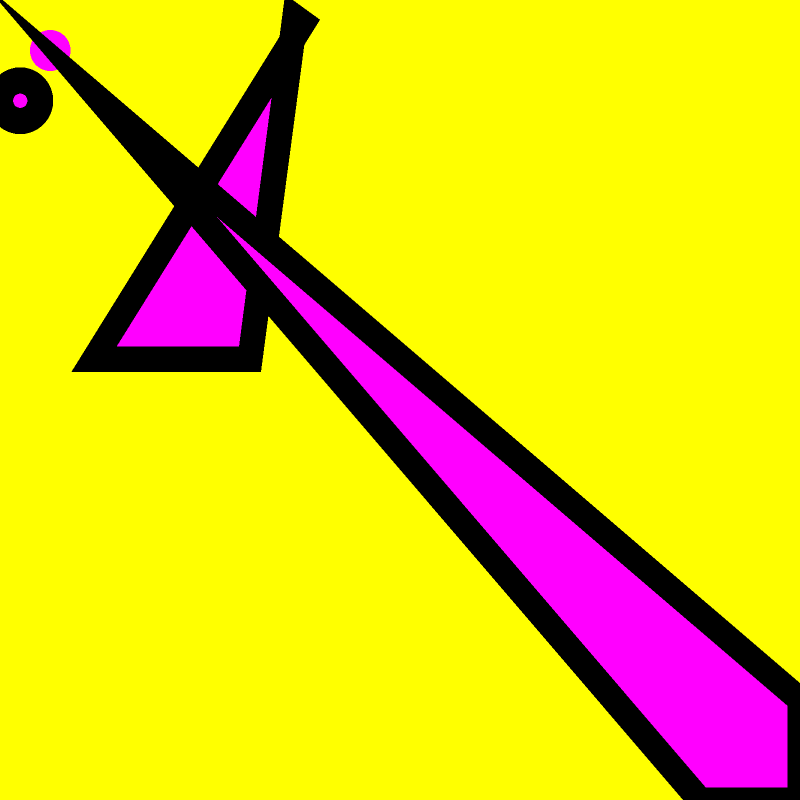
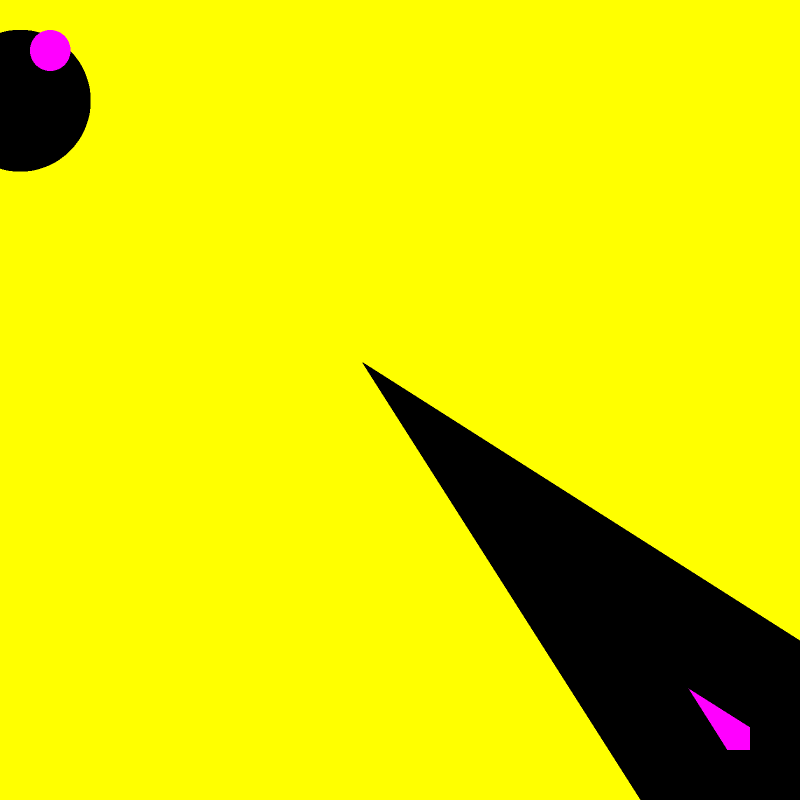
wee hoo, done

Changed region(s): [[0.0, 0.0, 1.0, 1.0], [0.7812, 0.6562, 0.8125, 0.6875], [0.6562, 0.7812, 0.6875, 0.8125]]

diff --git a/sources/curves/line.cpp b/sources/curves/line.cpp
@@ -6,31 +6,25 @@ using namespace glib;
 using namespace std;
 
 line::line(point a, point b) : 
-  _a(a.trunc()),
-  _b(b.trunc()) {
+  _a(a),
+  _b(b) {
 }
 
-bool
-line::width_bigger() const {
-	return (__abs(_a.x-_b.x) > __abs(_a.y-_b.y));
-}
-
-bool
-line::switch_points() const {
-	return ((width_bigger())?(_b.x>_a.x):(_b.y>_a.y));
-}
 
 list<moved_arrays>
 line::get_arrays() {
 	//algoritmus nekde odsud http://cgg.ms.mff.cuni.cz/~pepca/, zrovna to nebezi
 	
-	bool is_width_bigger = width_bigger();
+		//kreslim vzdycky podel delsiho rozmeru, a od mensiho cisla k vetsimu
+	bool is_width_bigger = (__abs(_a.x-_b.x) > __abs(_a.y-_b.y));
+	bool is_switch_points = ((is_width_bigger)?(_b.x>_a.x):(_b.y>_a.y));
 	
-	bool is_switch_points = switch_points();
 	
+			//kde zacinam a koncim
 	point begin_p = (is_switch_points)?(_a.trunc()):(_b.trunc());
 	point end_p = (is_switch_points)?(_b.trunc()):(_a.trunc());
 	
+				//zveda se ten druhy rozmer nebo klesa?
 	bool increasing = (is_width_bigger ? ((end_p.y-begin_p.y)>0) : ((end_p.x-begin_p.x)>0));
 	
 	moved_arrays res(__minimum(begin_p.y,end_p.y),__maximum(begin_p.y, end_p.y));
@@ -86,36 +80,32 @@ line::get_thick_line(const glib_float thickness, const curve* const previous, co
 	point c;
 	point d;
 	
-	geom_line my_geom_line = /*(switch_points())?(geom_line(_b,_a)):*/(geom_line(_a,_b));
+	geom_line my_geom_line =(geom_line(_a,_b));
 	
 	if (const line* previous_line = dynamic_cast<const line*>(previous)) {
 		
-		geom_line previous_geom_line = /*(previous_line->switch_points())?(geom_line(previous_line->_b, previous_line->_a)):*/(geom_line(previous_line->_a, previous_line->_b));
+		geom_line previous_geom_line = (geom_line(previous_line->_a, previous_line->_b));
 		
-		geom_line res = my_geom_line.parallel_intersection(previous_geom_line, thickness/2);
-		//prvni vrati VLEVO, pak VPRAVO
+		geom_line res = previous_geom_line.thick_cover(my_geom_line, thickness/2,true);
+
 		b=res.a;
 		a=res.b;
 	} else {
-		geom_line this_gl = geom_line(_a, _b);
-		a = this_gl.right_angle_a(1,thickness/2);
-		b = this_gl.right_angle_a(0,thickness/2);
+		a = my_geom_line.right_angle_a(1,thickness/2);
+		b = my_geom_line.right_angle_a(0,thickness/2);
 	}
 	
 	if (const line* next_line = dynamic_cast<const line*>(next)) {
 	
-		geom_line next_geom_line = /*(next_line->switch_points())?(geom_line(next_line->_b, next_line->_a)):*/(geom_line(next_line->_a, next_line->_b));
+		geom_line next_geom_line = (geom_line(next_line->_a, next_line->_b));
 		
-		geom_line res = my_geom_line.parallel_intersection(next_geom_line, thickness/2);
+		geom_line res = my_geom_line.thick_cover(next_geom_line, thickness/2,false);
 	
-	
-	//	std::cout<<"zde vznika c jako intersection paralelu usecky, dane body _a:"<<_a.x<<","<<_a.y<<" a _b:"<<_b.x<<","<<_b.y<<"; a dalsi usecka je dana body _a:"<<(next_line->_a).x<<","<<(next_line->_a).y<<" a _b:"<<(next_line->_b).x<<","<<(next_line->_b).y<<" s tloustkou "<<thickness/2<<", resp. jako jeden z bodu.\n=====\n";
 		c = res.a;
 		d = res.b;
 	} else {
-		geom_line this_gl = geom_line(_a, _b);
-		d = this_gl.right_angle_b(1,thickness/2);
-		c = this_gl.right_angle_b(0,thickness/2);
+		c = my_geom_line.right_angle_b(1,thickness/2);
+		d = my_geom_line.right_angle_b(0,thickness/2);
 	}
 	
 	return polygon(a,b,c,d);

diff --git a/sources/geom_line.cpp b/sources/geom_line.cpp
@@ -52,7 +52,6 @@ geom_line::intersection(const geom_line& another)const {
 		glib_float another_c = another.a.x-another_k*(another.a.y);
 		
 		glib_float y=(another_c-c)/(k-another_k);
-		if (__abs(k - another_k)<0.1) {throw 1;}
 		glib_float x=k*y+c;
 		
 		return point(x,y);
@@ -61,17 +60,74 @@ geom_line::intersection(const geom_line& another)const {
 	
 }
 
+geom_line 
+geom_line::reverted() const{
+	return geom_line(b,a);
+}
+
+glib_float 
+geom_line::count_rev_angle(const geom_line another) const{
+	glib_float first = another.reverted().angle_from_x();
+	std::cout<<"first je "<<first<<"\n";
+	glib_float second = angle_from_x();
+	glib_float res = first-second;
+	if (__abs(res)>180) {
+		glib_float res2=360-__abs(res);
+		if (res>0){res=-res2;} else {res=res2;}
+	}
+	return res;
+}
+
+glib_float 
+geom_line::angle_from_x() const{
+	if (__abs(a.x-b.x)<0.1) {
+		return (a.y<b.y)?(270):(90);
+	}
+	
+	if (__abs(a.y-b.y)<0.1) {
+		return (a.x<b.x)?(0):(180);
+	}
+	
+		//ty Y jsou "obracene", protoze Y je v souradicich na druhou stranu nez X
+	glib_float res;
+	if (b.x > a.x) {
+		
+		res=__RAD2DEG(atan((a.y-b.y) / (b.x-a.x)));
+	} else {
+		res = 180-__RAD2DEG(atan((b.y-a.y) / (b.x-a.x)));
+	}
+	while (res<0) res+=360;
+	while (res>360) res-=360;
+	return res;
+}
+
 geom_line
-geom_line::parallel_intersection(const geom_line& another, const glib_float distance) const{
+geom_line::thick_cover(const geom_line& another, const glib_float distance, bool second_hint) const{
 	geom_line my_right_parallel = parallel(false, distance);
 	geom_line another_right_parallel = another.parallel(false,distance);
-	point first_intersection = my_right_parallel.intersection(another_right_parallel);
+	
 	
 	geom_line my_left_parallel =  parallel(true, distance);
 	geom_line another_left_parallel = another.parallel(true,distance);
-	point second_intersection = my_left_parallel.intersection(another_left_parallel);
 	
-	return geom_line(first_intersection, second_intersection);
+	glib_float angle = count_rev_angle(another);
+	
+	point left_intersection;
+	point right_intersection;
+	
+	if (__abs(angle)<25){
+		left_intersection = my_left_parallel.intersection(another_right_parallel);
+		right_intersection = my_right_parallel.intersection(another_left_parallel);
+		if (second_hint) {
+			return geom_line(right_intersection, left_intersection);
+		}
+	} else {
+		left_intersection = my_left_parallel.intersection(another_left_parallel);
+		right_intersection = my_right_parallel.intersection(another_right_parallel);
+	}
+
+	
+	return geom_line(left_intersection, right_intersection);
 }
 
 geom_line 

diff --git a/sources/main.cpp b/sources/main.cpp
@@ -1,11 +1,18 @@
 #include "canvas.h"
 #include "all_shapes.h"
 #include "png_paint.h"
+#include "geom_line.h"
 
+
+using namespace glib;
 int main () {
+	
+	glib::glib_float ll = geom_line(point(10,10), point(0,20)).count_rev_angle(geom_line(point(20,20), point(10,10)));
+//	glib::glib_float ll = geom_line(point(10,0), point(0,10)).angle_from_x();
+	std::cout<<ll<<"\n";
 	glib::canvas novy(800,800, glib::RGBa(255,255,0),true);
 	
-	glib::shape_style style2(25, glib::RGBa(0,0,0), 1, glib::RGBa(255,0,255,255));
+	glib::shape_style style2(100, glib::RGBa(0,0,0), 1, glib::RGBa(255,0,255,255));
 	
 	glib::shape_style style(0, glib::RGBa(0,0,0), 1, glib::RGBa(255,0,255,255));
 	
@@ -16,9 +23,10 @@ int main () {
 	
 	novy.push_back(style2, glib::disk(glib::point(20,100), 20));
 	//novy.push_front(style2, glib::polygon(glib::point(303.897,23.19763), glib::point(295.964,17.02906), glib::point(94.261,359.759), glib::point(105.753,359.933)));
-		novy.push_front(style2, glib::polygon(glib::point(303.897,23.19763), glib::point(295.964,17.02906), glib::point(250.753,359.933), glib::point(94.261,359.759)));
 	
-	novy.push_front(style2, glib::polygon(glib::point(100,100), glib::point(700,800), glib::point(800,800), glib::point(800,700)));
+		novy.push_front(style2, glib::polygon(glib::point(800,700), glib::point(800,800), glib::point(700,800), glib::point(525,525)));
+		//525 - nelame
+		//524 - lame
 	
 	glib::png_paint("hear.png", novy);
 	

diff --git a/headers/types.h b/headers/types.h
@@ -7,15 +7,16 @@
 #include <utility>
 // 
 // 
- #include <vector>
+#include <vector>
 #include <map>
+#include <cmath>
 #include <string>
-//#include <iostream>
+#include <iostream>
 #include <list>
 
-#define __PI (4*atan(1))
-#define __DEG2RAD(_co) (static_cast<glib_float>(((_co)/180)*__PI))
-#define __RAD2DEG(_co) (static_cast<glib_float>(((_co)/__PI)*180))
+#define __PI (static_cast<glib::glib_float>(4*atan(1)))
+#define __DEG2RAD(_co) (static_cast<glib::glib_float>((((glib::glib_float)_co)/180.0)*__PI))
+#define __RAD2DEG(_co) (static_cast<glib::glib_float>((((glib::glib_float)_co)/__PI)*180.0))
 
 #define __minimum(_a,_b) (((_a)<(_b))?(_a):(_b))
 #define __maximum(_a,_b) (((_a)>(_b))?(_a):(_b))
@@ -26,7 +27,6 @@
 
 #define __abs(a) (((a)>0)?((a)):(-(a)))
 
-	//tyhle makra se straaaasne hodi
 
 
 	//jeden pokus o zaokrouhlovani - nakonec mi prislo nejlepsi to jednoduse truncnout
@@ -40,6 +40,11 @@ namespace glib {
 	typedef long glib_int; 
 	typedef unsigned char glib_component;
 	typedef double glib_float;
+	
+	/*int __abs(const int& a);
+	float __abs(const float& a);
+	double __abs(const double& a);
+	char __abs(const char& a);*/
 
 }	
 	

diff --git a/sources/shape.cpp b/sources/shape.cpp
@@ -51,10 +51,10 @@ shape::get_pixels(const glib_int height, const glib_int width, const bool antial
 		max_y = __maximum((**i).get_max_y(), max_y);
 	}
 	
-	min_x = min_x - 50*_style._line_size;
-	max_x = max_x + 50*_style._line_size;
-	min_y = min_y - 50*_style._line_size;
-	max_y = max_y + 50*_style._line_size;
+	min_x = min_x - 3.2*_style._line_size;
+	max_x = max_x + 3.2*_style._line_size;
+	min_y = min_y - 3.2*_style._line_size;
+	max_y = max_y + 3.2*_style._line_size;
 			//tohle se muze zdat moc, ale co ono tohle vlastne je?
 			// tohle je odhad, ktery je tu proto, aby se to nemuselo vypocitavat/kreslit, kdyz
 			// uz je to "pokryte" necim jinym. pricemz k vypocitani velikosti okraje uz je potreba

diff --git a/headers/geom_line.h b/headers/geom_line.h
@@ -11,6 +11,10 @@ namespace glib {
 		geom_line(const point& my_a, const point& my_b);
 		geom_line();
 		
+		geom_line reverted() const; 
+		
+		glib_float count_rev_angle(const geom_line another) const;
+		glib_float angle_from_x() const;
 		
 		geom_line normalised(const glib_float length) const;
 		
@@ -21,7 +25,7 @@ namespace glib {
 		point intersection(const geom_line& another) const;
 		
 		//tady tu geom_line jenom hnusne pouzivam na ulozeni 2 pointu
-		geom_line parallel_intersection(const geom_line& another, const glib_float distance) const;
+		geom_line thick_cover(const geom_line& another, const glib_float distance, bool second_hind) const;
 	};
 	
 }

diff --git a/headers/curves/line.h b/headers/curves/line.h
@@ -16,15 +16,10 @@ namespace glib{
 		
 	public:
 		
-		bool width_bigger() const;
-		bool switch_points() const;
-		
-			//vrati prvni
-		
 		line(point a, point b);
 		
 		virtual std::list<moved_arrays> get_arrays();
-
+		
 		virtual shape_type get_thick_line(const glib_float thickness, const curve* const previous, const curve* const next) const;
 
 		virtual glib_int get_min_y() const;

diff --git a/headers/canvas.h b/headers/canvas.h
@@ -6,6 +6,8 @@
 
 namespace glib {
 	class canvas {
+			//canvas je "hlavni" trida
+			//na tu se umistuji shapes, ona jim pak rika "kreslete se!"
 	public:
 		typedef plane<RGBa>::T_list colors_row;	//list struktur (barva, zacatek, konec) z plane
 	private:

diff --git a/headers/all_shapes.h b/headers/all_shapes.h
@@ -9,7 +9,7 @@
 
 namespace glib {
 	
-		//all the known shape_types in the universe
+		//všechny známé shape
 	class disk:public shape_type {
 	public:
 		disk(const point& center, const glib_float radius);
